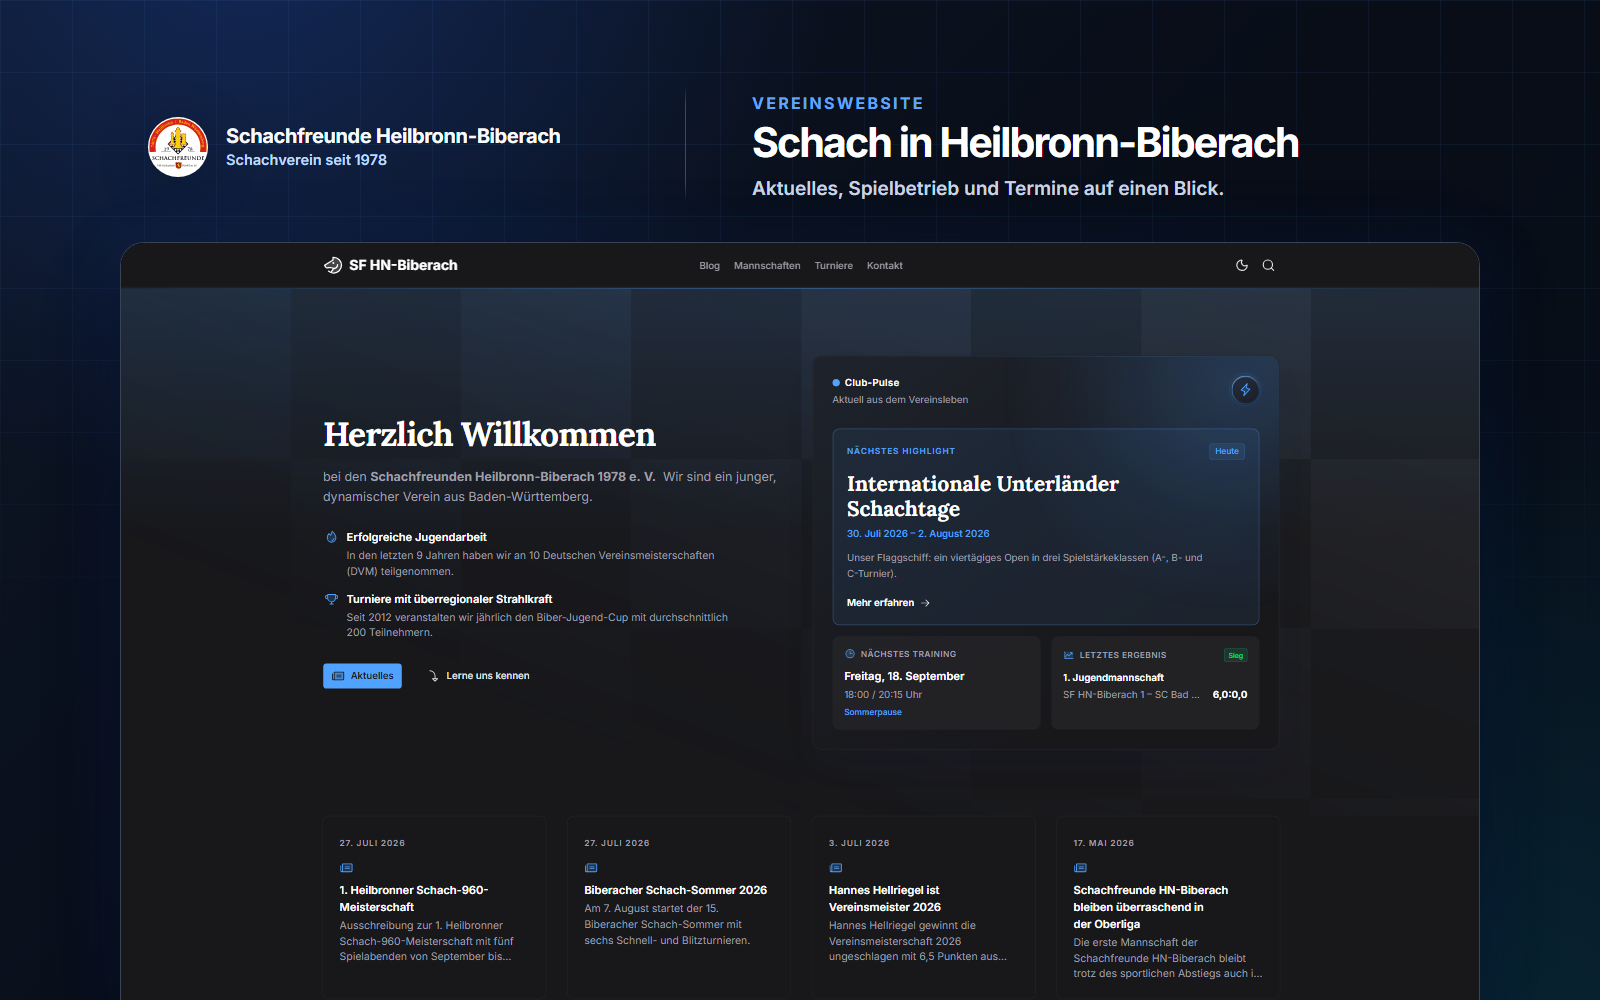
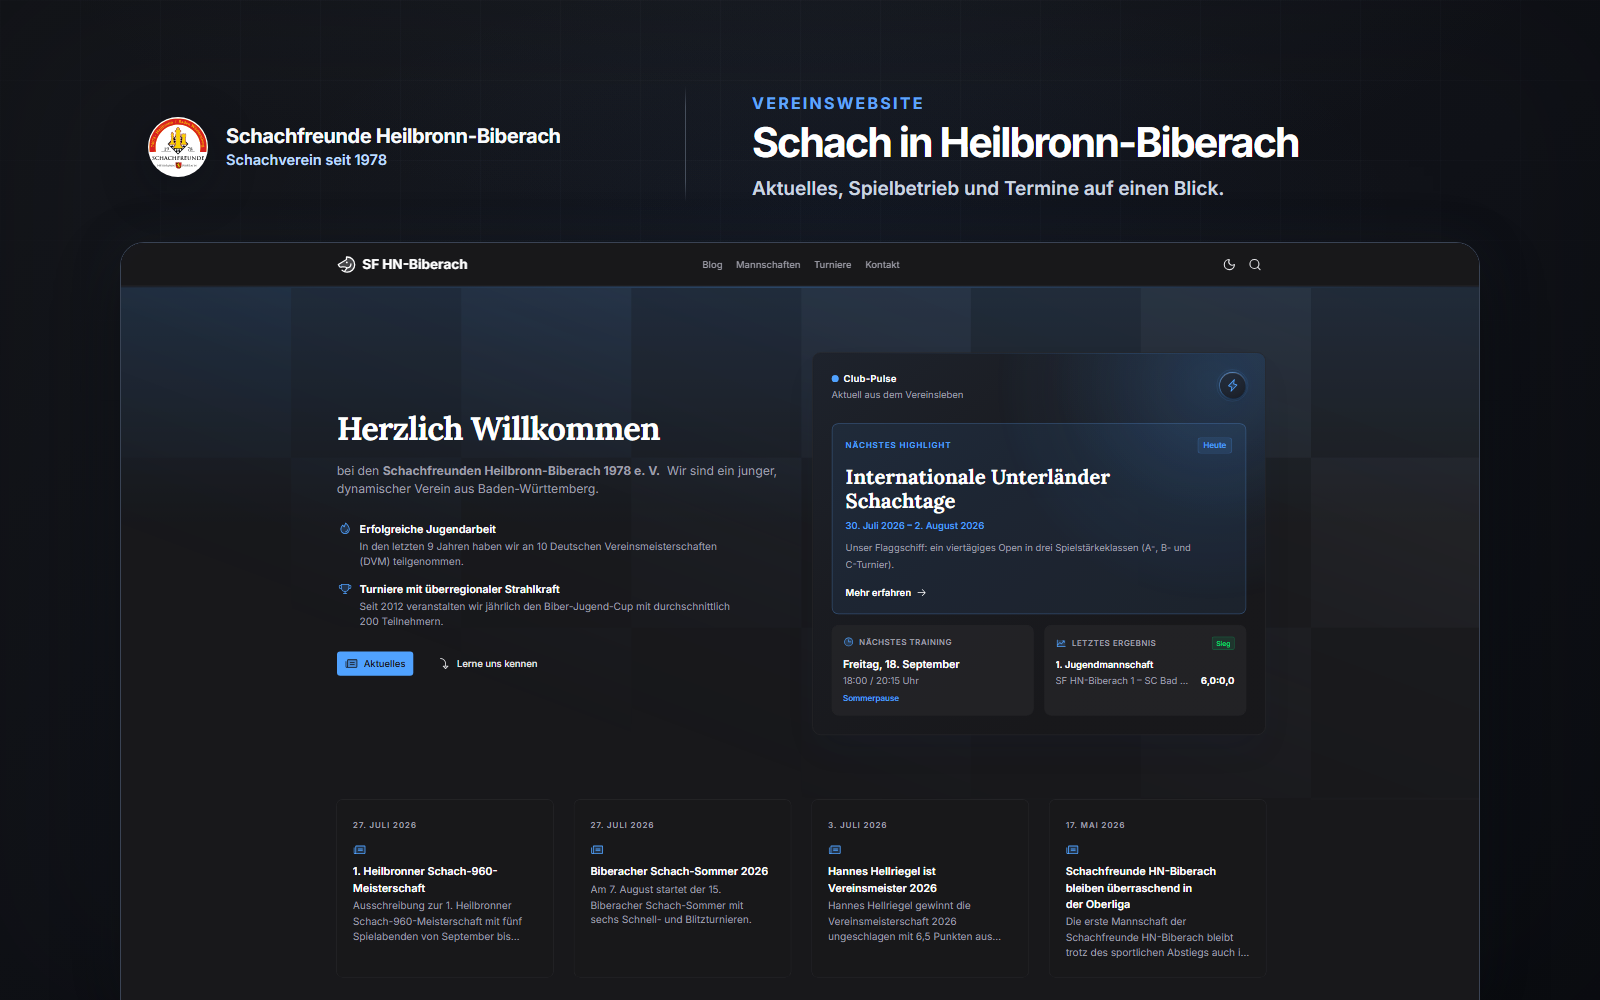
refactor: soften README preview backdrop

diff --git a/app/pages/__media/readme.vue b/app/pages/__media/readme.vue
@@ -47,9 +47,9 @@ useSeoMeta({ robots: 'noindex, nofollow' })
   overflow: hidden;
   padding: 52px 120px 0;
   background:
-    radial-gradient(circle at 16% -8%, rgba(37, 99, 235, 0.26), transparent 34%),
-    radial-gradient(circle at 92% 108%, rgba(8, 145, 178, 0.16), transparent 38%),
-    linear-gradient(135deg, #0d1525 0%, #080d17 58%, #07111c 100%);
+    radial-gradient(ellipse 66% 42% at 50% -8%, rgba(71, 85, 105, 0.16), transparent 72%),
+    radial-gradient(ellipse 48% 34% at 52% 22%, rgba(59, 130, 246, 0.045), transparent 76%),
+    linear-gradient(145deg, #15171c 0%, #101218 56%, #0c0e13 100%);
   color: #f8fafc;
   font-family: Inter, ui-sans-serif, system-ui, sans-serif;
 }
@@ -58,10 +58,18 @@ useSeoMeta({ robots: 'noindex, nofollow' })
   position: absolute;
   inset: 0;
   background-image:
-    linear-gradient(rgba(96, 165, 250, 0.075) 1px, transparent 1px),
-    linear-gradient(90deg, rgba(96, 165, 250, 0.075) 1px, transparent 1px);
-  background-size: 72px 72px;
-  mask-image: linear-gradient(to bottom, #000 0%, rgba(0, 0, 0, 0.72) 38%, transparent 72%);
+    linear-gradient(rgba(148, 163, 184, 0.035) 1px, transparent 1px),
+    linear-gradient(90deg, rgba(148, 163, 184, 0.035) 1px, transparent 1px);
+  background-size: 80px 80px;
+  mask-image: radial-gradient(ellipse 78% 60% at 50% 0%, #000 0%, rgba(0, 0, 0, 0.76) 52%, transparent 90%);
+  pointer-events: none;
+  content: '';
+}
+
+#readme-art::after {
+  position: absolute;
+  inset: 0;
+  box-shadow: inset 0 0 160px rgba(0, 0, 0, 0.22);
   pointer-events: none;
   content: '';
 }
@@ -177,7 +185,7 @@ useSeoMeta({ robots: 'noindex, nofollow' })
   border-bottom: 0;
   border-radius: 24px 24px 0 0;
   background: #0b1220;
-  box-shadow: 0 34px 72px rgba(2, 6, 23, 0.48), 0 0 72px rgba(37, 99, 235, 0.1);
+  box-shadow: 0 28px 64px rgba(0, 0, 0, 0.38), 0 0 56px rgba(51, 65, 85, 0.12);
 }
 
 .readme-browser-content {
@@ -189,11 +197,11 @@ useSeoMeta({ robots: 'noindex, nofollow' })
 
 #readme-site {
   display: block;
-  width: 1956.835px;
+  width: 2014.815px;
   height: 1300px;
   border: 0;
   background: #0b1220;
-  transform: scale(0.695);
+  transform: scale(0.675);
   transform-origin: top left;
 }
 </style>
